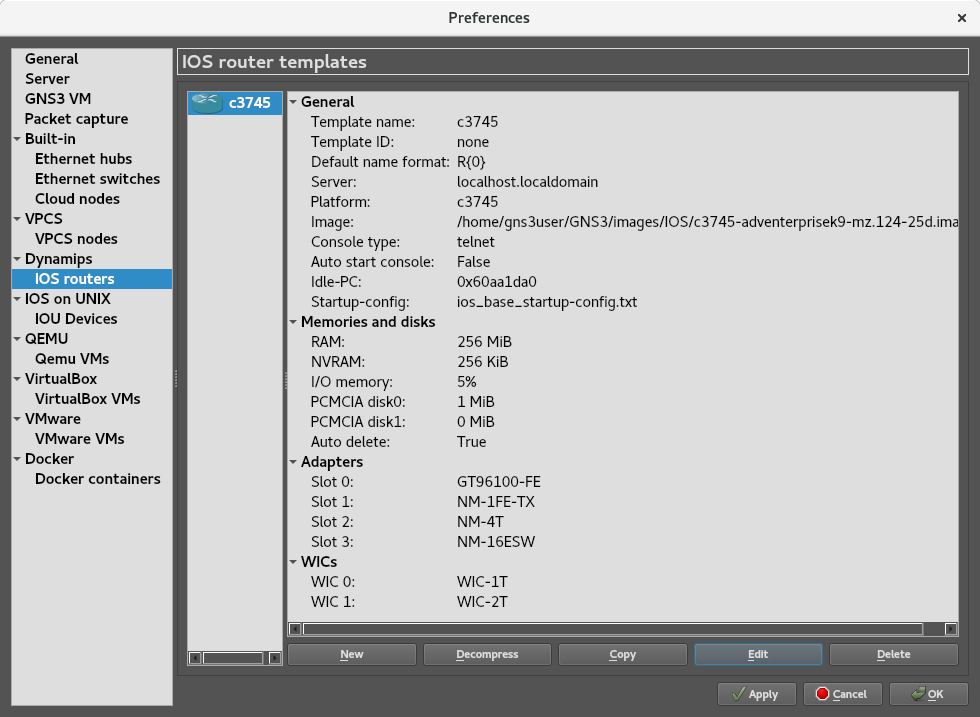
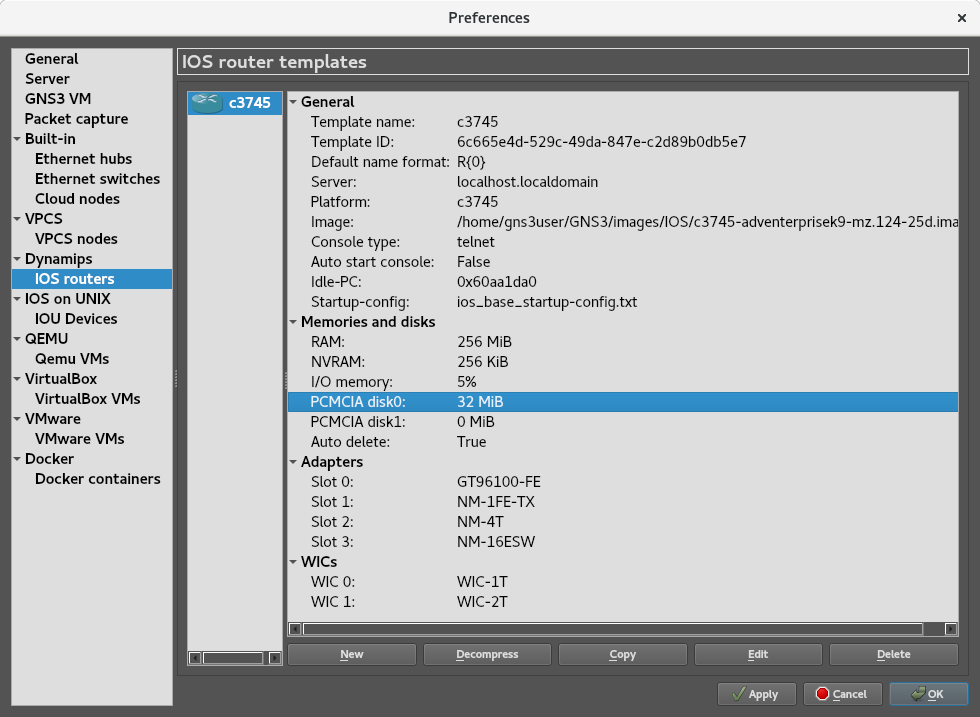
Corrected the gns3_run file and the PCMCIA size in the README.md.

Changed region(s): [[0.2755, 0.5216, 0.9796, 0.583], [0.4592, 0.1841, 0.7653, 0.2148]]

diff --git a/README.md b/README.md
@@ -178,11 +178,11 @@ Finally, accept the default Idle-PC value and click **Finish:**
 
 ![Preferences dialog](images/gns3_12.png)
 
-The IOS template's details appear. Note the memory for Personal Computer Memory Card International Association (PCMCIA) slot disk0; click on **Edit**:
+The IOS template's details appear. Note the memory for the Personal Computer Memory Card International Association (PCMCIA) disk0. This is the device's CompactFlash (CF) memory card, used to store the system image, configuration files, and more. It cannot be 0, and the cards hold 32, 64, and 128 MiB of memory. Click on **Edit** to change it:
 
 ![Preferences dialog](images/gns3_13.png)
 
-Set the PCMCIA disk0 to 1 MiB and click **OK**:
+Set the PCMCIA disk0 to 32 MiB and click **OK**:
 
 ![Preferences dialog](images/gns3_14.png)
 
